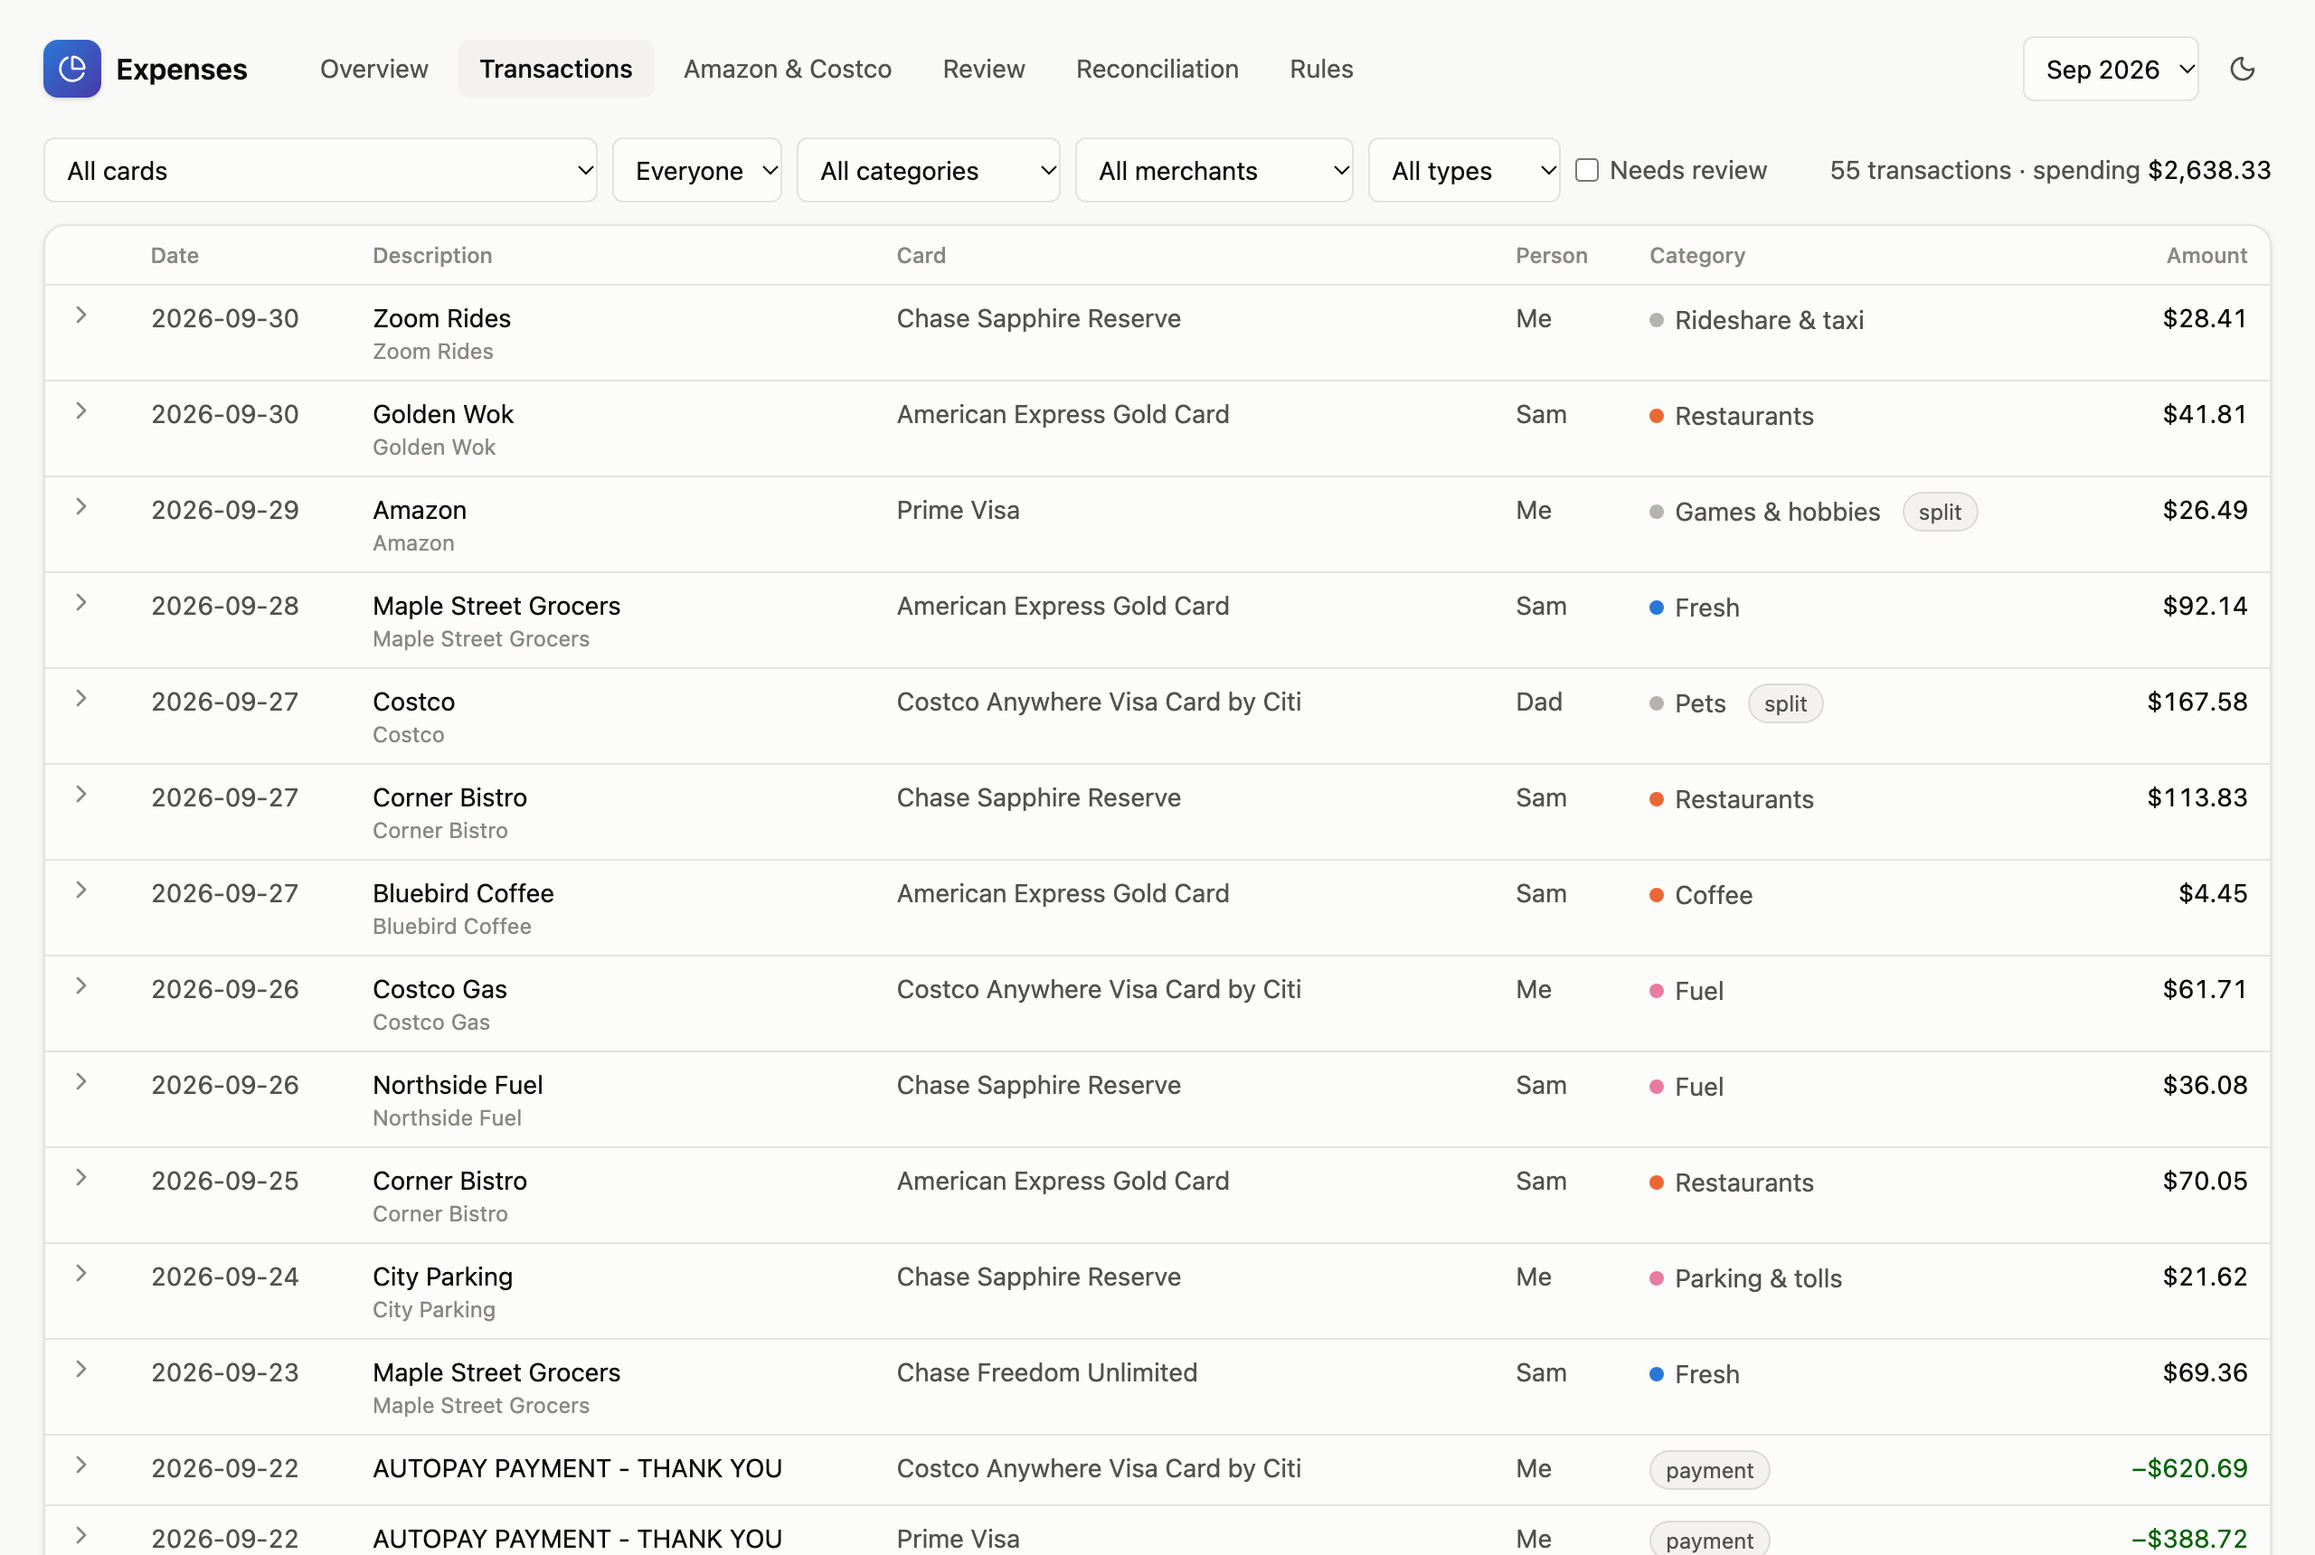
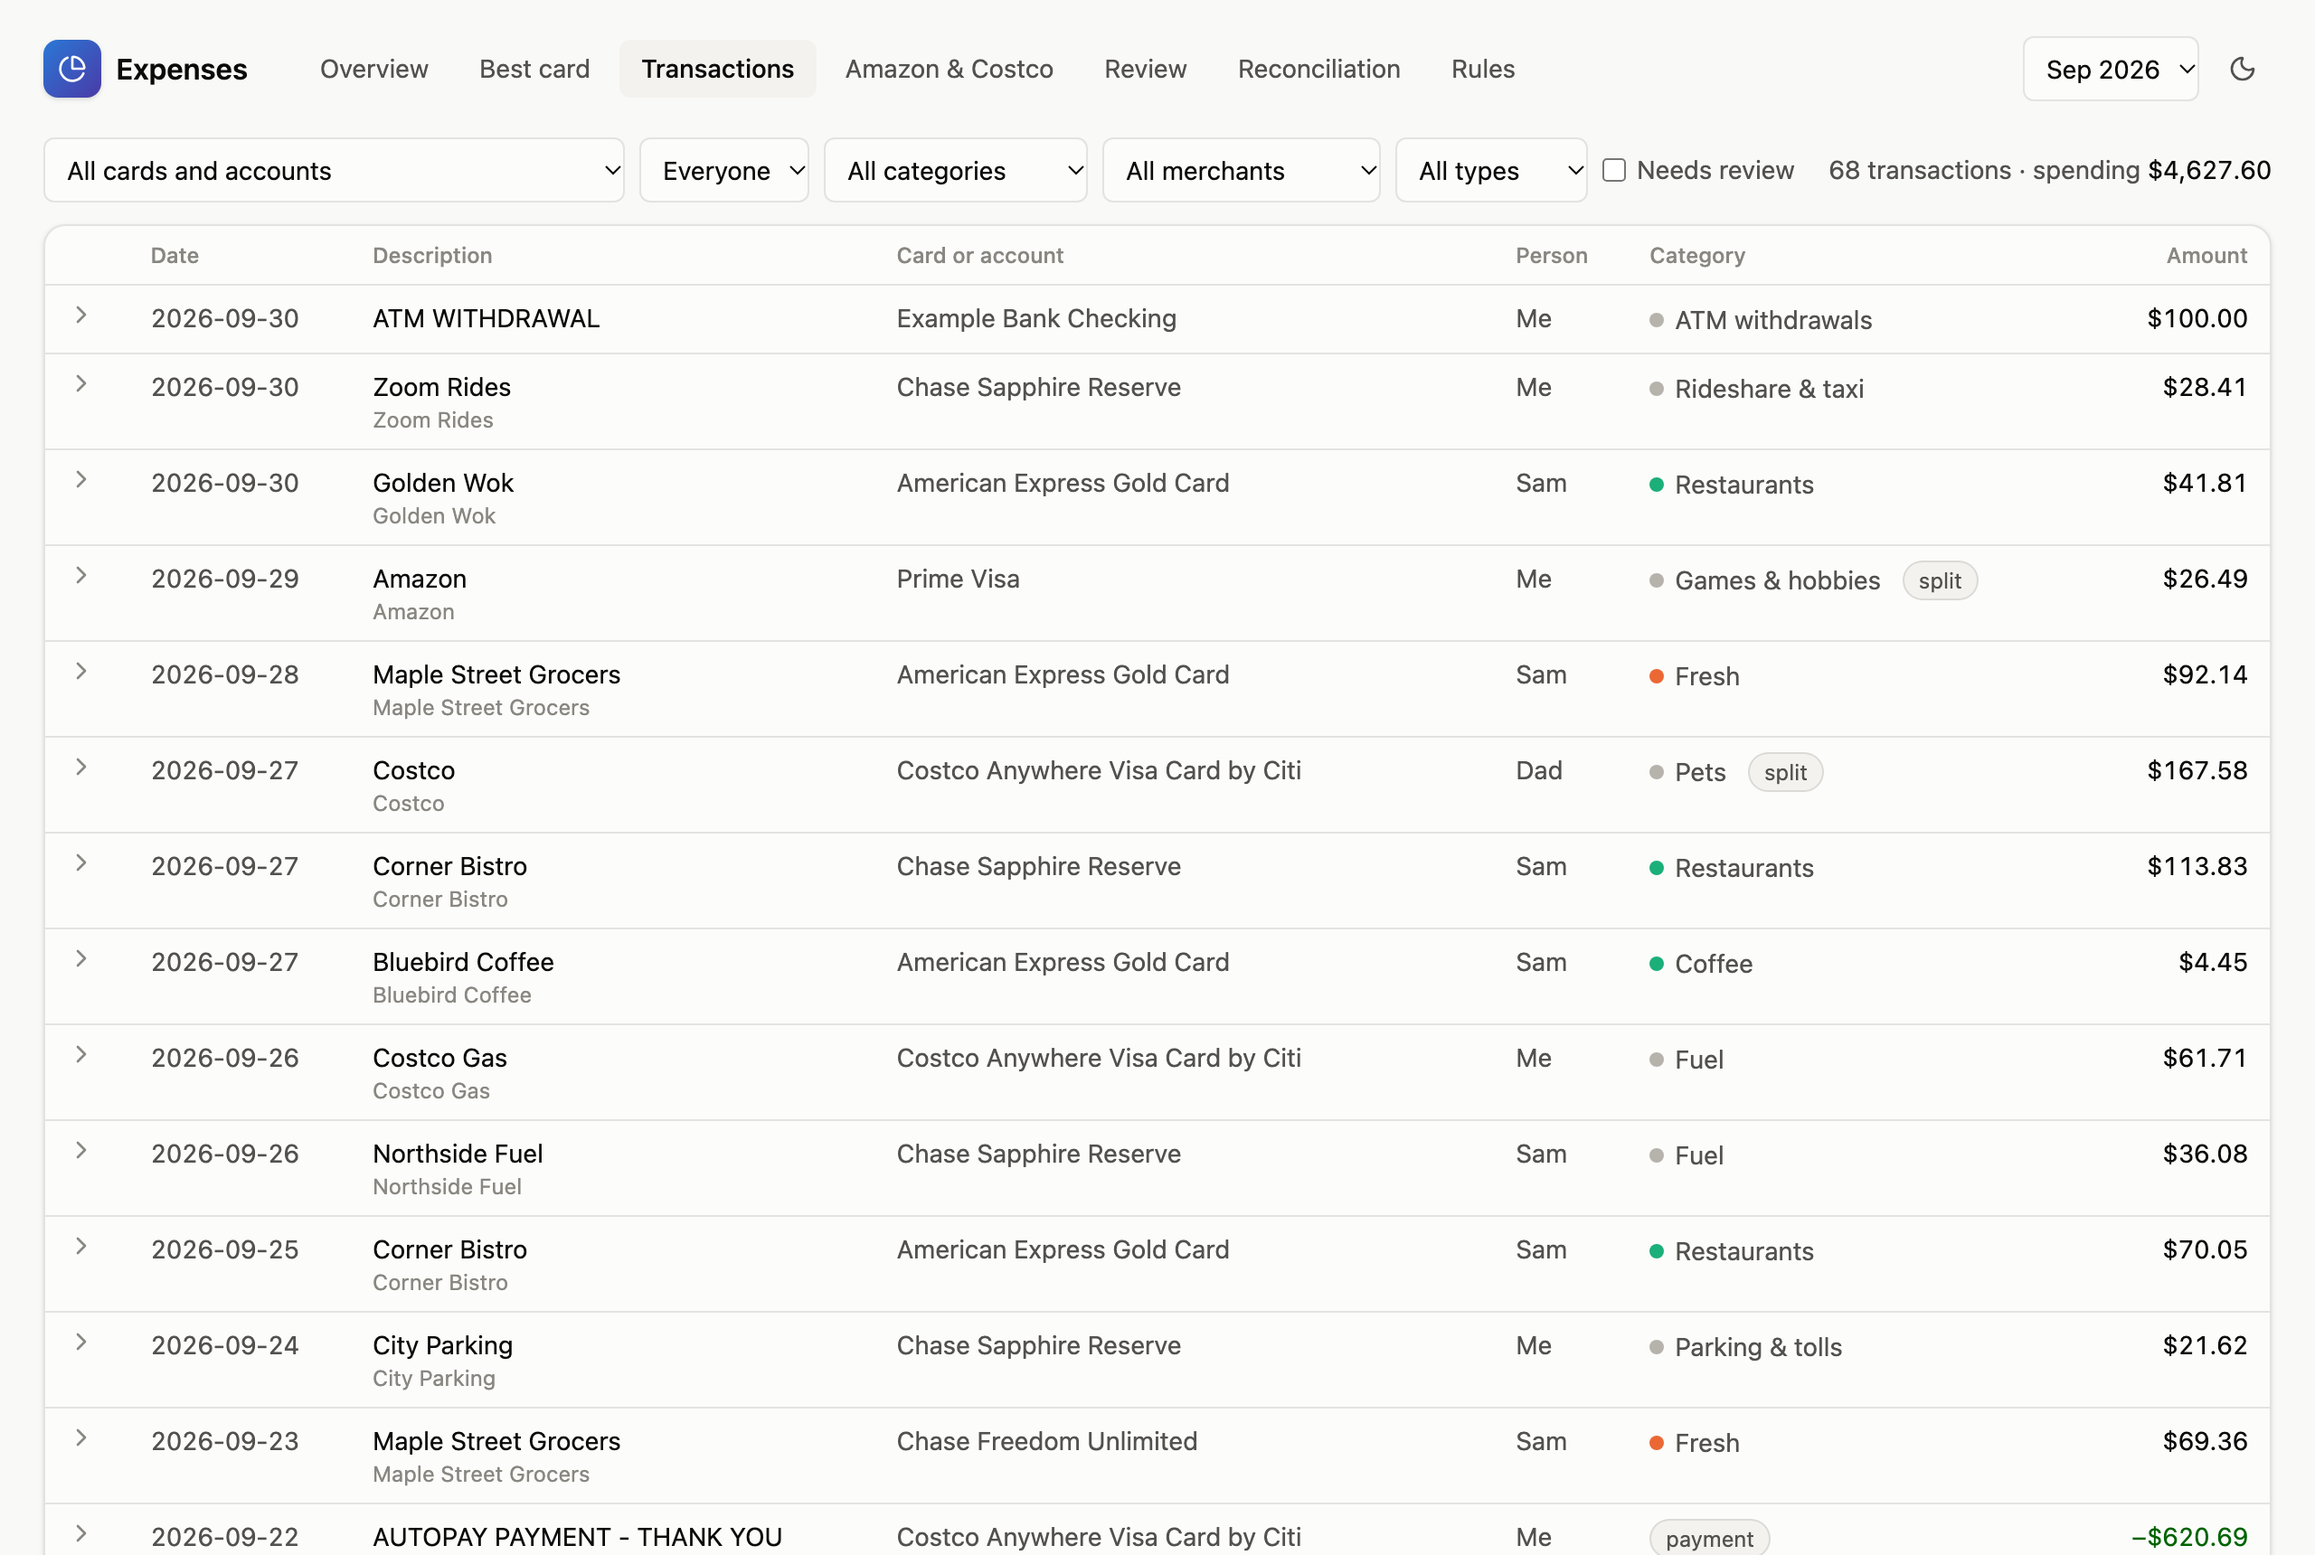
README screenshots of every page, checking included
The mock database gains a fictional checking account (pay, rent, bills,
card payments linked to each card, statements that balance), made-up
card terms for Best card, and a few rules of my own. New shots: Best
card, Review and Rules.

diff --git a/scripts/make_screenshots.py b/scripts/make_screenshots.py
@@ -201,7 +201,9 @@ def build(db_file: Path) -> None:
     rng = random.Random(7)  # noqa: S311 - mock data, not security
     upgrade(db_file)
     s = session_factory(db_file)()
-    sync_reference(s, load_cards(CONFIG_DIR / "cards.example.json"), load_taxonomy())
+    cfg = load_cards(CONFIG_DIR / "cards.example.json")
+    taxonomy = load_taxonomy()
+    sync_reference(s, cfg, taxonomy)
 
     imports: dict[str, m.Import] = {}
 
@@ -230,7 +232,8 @@ def build(db_file: Path) -> None:
             s.flush()
         return merchants[name]
 
-    issuer = {"amex_platinum": "amex", "amex_gold": "amex", "citi_costco": "citi"}
+    issuer = {"amex_platinum": "amex", "amex_gold": "amex", "citi_costco": "citi",
+              "checking": "bank"}
     seq = iter(range(1, 10**6))
 
     def txn(
@@ -423,7 +426,8 @@ def build(db_file: Path) -> None:
     # Monthly statements that balance, with each card paid in full the next month.
     from fin.db.models import Statement, Transaction
 
-    for card in [c.id for c in s.scalars(select(m.Card))]:
+    payments: list[m.Transaction] = []
+    for card in [c.id for c in cfg.cards]:
         prev = cents(rng.uniform(250, 900))
         for month in MONTHS:
             y, mo = map(int, month.split("-"))
@@ -468,6 +472,12 @@ def build(db_file: Path) -> None:
             for t in rows:
                 t.statement_id = st.id
             prev = st.new_balance
+            if pay:
+                payments.append(pay)
+
+    checking(s, rng, txn, day, payments)
+    card_terms(s, cfg)
+    rules(s, taxonomy)
 
     # A few things for the Review page.
     last = MONTHS[-1]
@@ -509,7 +519,8 @@ def build(db_file: Path) -> None:
         )
     )
 
-    for site, files in [("chase", 9), ("amex", 6), ("citi", 3), ("amazon", 16), ("costco", 8)]:
+    for site, files in [("chase", 9), ("amex", 6), ("citi", 3), ("bank", 4), ("amazon", 16),
+                        ("costco", 8)]:
         s.add(
             m.SyncRun(
                 site=site,
@@ -524,6 +535,131 @@ def build(db_file: Path) -> None:
         )
     s.commit()
     s.close()
+
+
+CHECKING_PAY = {  # how the checking account names a payment to each issuer
+    "amex": "AMEX EPAYMENT ACH PMT",
+    "chase": "CHASE CREDIT CRD EPAY",
+    "citi": "CITI CARD ONLINE PAYMENT",
+}
+
+
+def checking(s, rng, txn, day, payments) -> None:
+    """The Example Bank checking account: pay in; rent, bills and cash out; every card paid
+    from it and linked to the card's payment; statements that balance; a running balance."""
+    from fin.db import models as m
+
+    rows: list[m.Transaction] = []
+
+    def bank(date, amount, raw, type_, flow, name=None, category=None) -> m.Transaction:
+        t = txn("checking", date, amount, name, category, type_=type_, raw=raw)
+        t.flow_kind = flow
+        rows.append(t)
+        return t
+
+    for month in MONTHS:
+        for d in ("01", "15"):
+            bank(f"{month}-{d}", -421500, "EXAMPLE CORP PAYROLL", "deposit", "income")
+        bank(f"{month}-02", 185000, "OAKVIEW APARTMENTS RENT", "purchase", None,
+             "Oakview Apartments", "housing.rent")
+        bank(day(month, 8, 12), cents(rng.uniform(38, 64)), "CITY WATER UTILITY", "purchase",
+             None, "City Water", "bills.utilities")
+        bank(day(month), 10000, "ATM WITHDRAWAL", "purchase", "atm", None, "cash.atm")
+        bank(f"{month}-16", 50000, "ONLINE TRANSFER TO SAV", "transfer", "own_transfer")
+    bank("2026-08-19", -25000, "MOBILE DEPOSIT", "deposit", "other_in")
+    other = bank("2026-09-14", 6412, "DISCOVER E-PAYMENT", "transfer", "card_payment_other")
+    s.add(m.ReviewItem(kind="unmatched_transfer", ref_table="transactions", ref_id=str(other.id),
+                       details_json='{"reason": "A payment to a card you don\'t track."}'))
+    issuer = {"amex_platinum": "amex", "amex_gold": "amex", "citi_costco": "citi"}
+    for p in payments:
+        b = bank(f"{p.post_date[:8]}21", -p.amount_cents,
+                 CHECKING_PAY[issuer.get(p.card_id, "chase")], "transfer", "card_payment")
+        s.add(m.TransferLink(bank_txn_id=b.id, card_txn_id=p.id, method="named", days_apart=-1,
+                             confidence=1.0))
+
+    balance = 640000
+    for month in MONTHS:
+        opening, ins, outs = balance, 0, 0
+        for t in sorted((t for t in rows if t.post_date.startswith(month)),
+                        key=lambda t: (t.post_date, t.id)):
+            balance -= t.amount_cents
+            t.balance_after_cents = balance
+            ins += max(-t.amount_cents, 0)
+            outs += max(t.amount_cents, 0)
+        y, mo = map(int, month.split("-"))
+        s.add(m.BankStatement(
+            card_id="checking", period_start=f"{month}-01",
+            period_end=f"{month}-{calendar.monthrange(y, mo)[1]:02d}", opening_balance=opening,
+            deposits=ins, withdrawals=outs, closing_balance=balance, pdf_path="demo",
+            parse_method="regex", math_ok=True, ledger_status="match", ledger_delta_cents=0))
+
+
+def card_terms(s, cfg) -> None:
+    """Card terms for Best card. The rates are made up for the screenshots; no document is
+    quoted."""
+    from fin.cards.compose import content_hash
+    from fin.cards.models import CardProfile
+    from fin.db import models as m
+    from fin.db.models import utcnow
+
+    ev = [{"doc": "D1", "quote": "Mock terms for the README screenshots."}]
+
+    def rule(rate, cats=(), merchants=(), **kw) -> dict:
+        return {"rate": rate, "categories": list(cats), "merchants": list(merchants),
+                "evidence": ev, **kw}
+
+    def base(rate) -> dict:
+        return {"rate": rate, "is_base": True, "evidence": ev}
+
+    yearly = {"period": "calendar_year", "rate_after": 1}
+    prime = [{"kind": "membership", "name": "Prime membership"}]
+    terms = {  # card: currency, its name, annual fee, earn rules
+        "amex_platinum": ("amex_mr", "Membership Rewards points", 69500, [
+            base(1), rule(5, ["airlines"], channel="direct"),
+            rule(5, ["hotels"], channel="issuer_portal", portal="Amex Travel")]),
+        "amex_gold": ("amex_mr", "Membership Rewards points", 32500, [
+            base(1), rule(4, ["dining"]), rule(3, ["airlines"], channel="direct"),
+            rule(4, ["supermarkets"], geography="us",
+                 cap={"amount_cents": 2500000, **yearly})]),
+        "chase_sapphire_reserve": ("chase_ur", "Ultimate Rewards points", 79500, [
+            base(1), rule(3, ["dining"]), rule(4, ["airlines", "hotels"], channel="direct")]),
+        "chase_freedom_unlimited": ("chase_ur", "Ultimate Rewards points", 0, [
+            base(1.5), rule(3, ["dining"]), rule(3, ["drugstores"])]),
+        "chase_prime_visa": ("cash_back", "cash back", 0, [
+            base(1), rule(5, merchants=["amazon", "whole_foods"], requirements=prime),
+            rule(2, ["dining", "gas_stations", "transit"])]),
+        "citi_costco": ("cash_back", "cash back", 0, [
+            base(1), rule(3, ["dining"]), rule(2, merchants=["costco_warehouse", "costco_online"]),
+            rule(4, ["gas_stations"], cap={"amount_cents": 700000, **yearly})]),
+    }
+    domains = {i.id: i.allowed_domains[0] for i in cfg.issuers}
+    for card in cfg.cards:
+        currency, name, fee, earn = terms[card.id]
+        p = CardProfile.model_validate({
+            "card_id": card.id, "currency": currency, "currency_name": name,
+            "annual_fee_cents": {"value": fee, "evidence": ev},
+            "foreign_txn_fee_pct": {"value": 0, "evidence": ev}, "earn_rules": earn})
+        s.add(m.CardProfileVersion(card_id=card.id, version=1, status="active",
+                                   profile_json=p.model_dump_json(), content_hash=content_hash(p),
+                                   decided_at=utcnow()))
+        s.add(m.CardDocument(card_id=card.id, url=f"https://www.{domains[card.issuer]}/mock",
+                             doc_type="rewards_terms", title="Rewards terms (mock)",
+                             last_checked_at=utcnow()))
+
+
+def rules(s, taxonomy) -> None:
+    """The seed rules, plus a few of my own for the Rules page."""
+    from fin.categorize.rules import load_seed_rules
+    from fin.db import models as m
+
+    load_seed_rules(s, taxonomy)
+    for pattern, name, category in [
+        ("OAKVIEW APARTMENTS", "Oakview Apartments", "housing.rent"),
+        ("CITY WATER", "City Water", "bills.utilities"),
+        ("LANTERN HALL", "Lantern Hall", "entertainment.events"),
+    ]:
+        s.add(m.Rule(priority=10, pattern=pattern, merchant_name=name, category_id=category,
+                     created_by="user"))
 
 
 def serve(db_file: Path):
@@ -552,9 +688,12 @@ def serve(db_file: Path):
 SHOTS = [  # file, path, theme, height
     ("overview.png", "/", "light", 1510),
     ("overview-dark.png", "/", "dark", 1510),
+    ("best-card.png", "/best-card?q=whole+foods", "light", 900),
     ("transactions.png", "/transactions", "light", 860),
     ("orders.png", "/orders?merchant=costco", "light", 740),
-    ("reconciliation.png", "/reconciliation", "light", 860),
+    ("review.png", "/review", "light", 780),
+    ("reconciliation.png", "/reconciliation", "light", 1180),
+    ("rules.png", "/rules", "light", 760),
 ]
 
 

diff --git a/README.md b/README.md
@@ -21,13 +21,17 @@ item for Amazon and Costco, and checks every number against your bank statements
 
 <picture>
   <source media="(prefers-color-scheme: dark)" srcset="docs/screenshots/overview-dark.png">
-  <img alt="Overview: spending by category as a donut, the 3-month trend, and spending by person, card, merchant and subcategory" src="docs/screenshots/overview.png">
+  <img alt="Overview: checking money in and out, spending by category as a donut, the 3-month trend, and spending by person, card or account, merchant and subcategory" src="docs/screenshots/overview.png">
 </picture>
 
 <details>
 <summary>More screenshots</summary>
 
-**Transactions**: filters, category dots, item splits
+**Best card**: your cards ranked for where you're paying, with the terms behind each rate
+
+![Best card page](docs/screenshots/best-card.png)
+
+**Transactions**: cards and the checking account together, filters, category dots, item splits
 
 ![Transactions page](docs/screenshots/transactions.png)
 
@@ -35,14 +39,23 @@ item for Amazon and Costco, and checks every number against your bank statements
 
 ![Costco receipts page](docs/screenshots/orders.png)
 
-**Reconciliation**: every statement balances and matches the ledger
+**Review**: card payments to check, low-confidence guesses, uncategorized rows
+
+![Review page](docs/screenshots/review.png)
+
+**Reconciliation**: checking and card statements balance and match the ledger; card payments
+are matched to checking
 
 ![Reconciliation page](docs/screenshots/reconciliation.png)
 
+**Rules**: your own rules, which win over the seed rules
+
+![Rules page](docs/screenshots/rules.png)
+
 </details>
 
-<sub>Screenshots use mock data: a fictional household, made-up merchants and products
-(`make screenshots` regenerates them).</sub>
+<sub>Screenshots use mock data: a fictional household and bank, made-up merchants, products and
+card terms (`make screenshots` regenerates them).</sub>
 
 ## Supported sources
 
